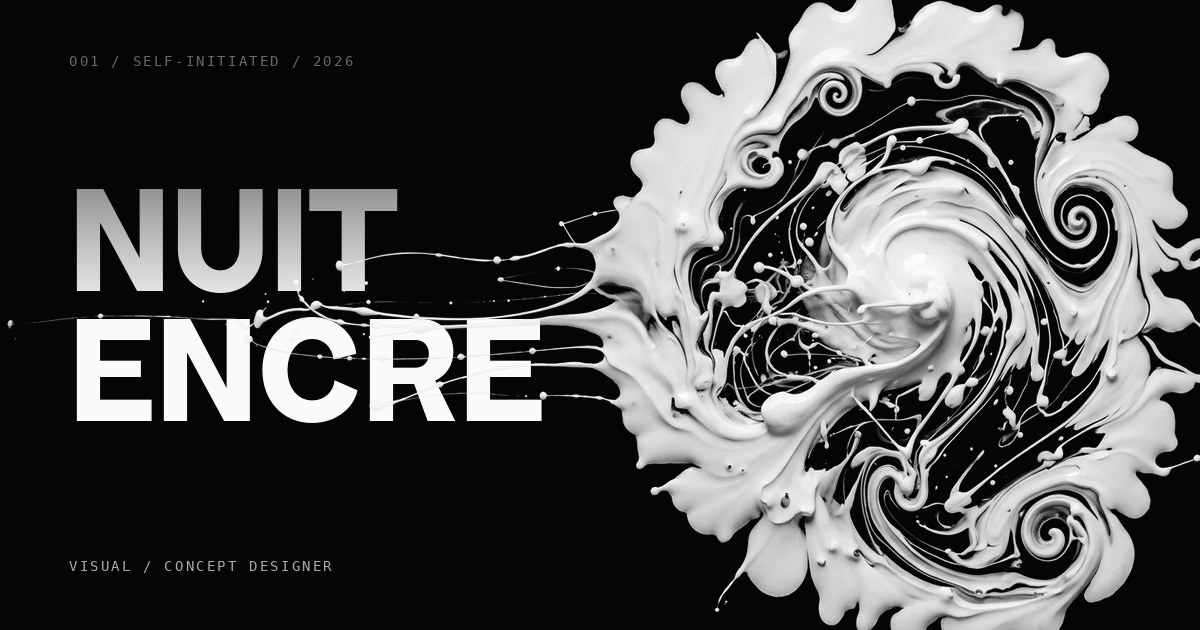
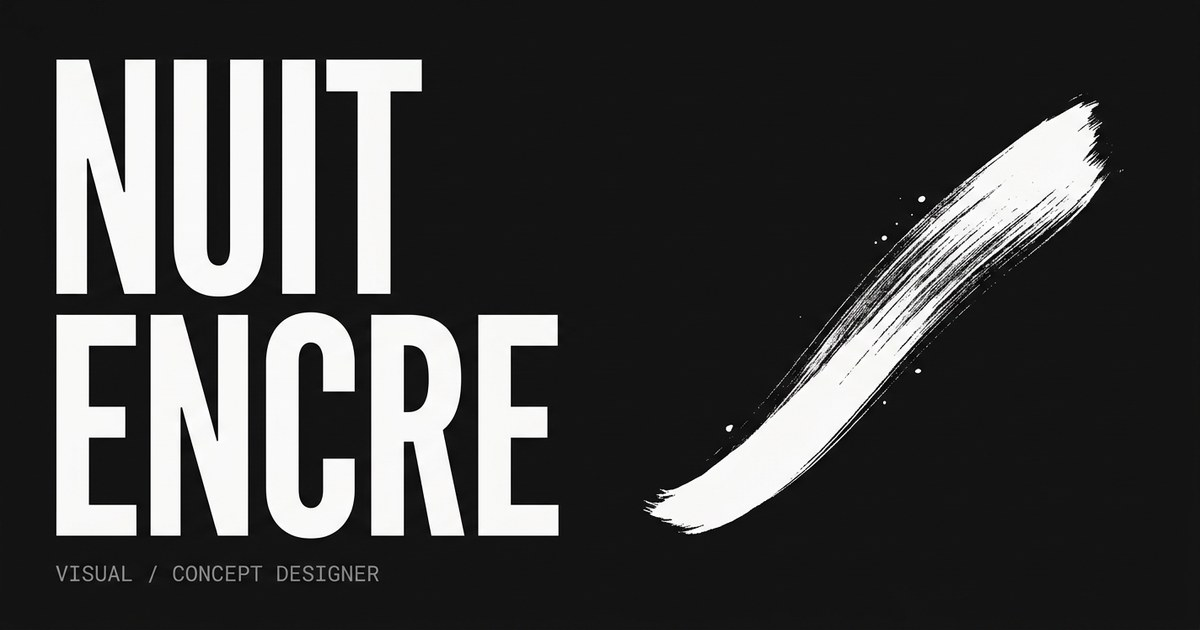
meta: og image baru — flat matte, sesuai identitas situs
Keputusan pemilik: versi lama (swirl cat cair 3D + wordmark gradasi)
jelek. Generate baru 1200×630: latar hitam pekat, wordmark NUIT
ENCRE putih flat dua baris, satu sapuan tinta kuas kering matte +
percikan halus di kanan, 'VISUAL / CONCEPT DESIGNER' monospace di
kiri bawah. Alt og:image disinkronkan; riwayat 3 versi tercatat di
CONCEPT.md §8.

diff --git a/index.html b/index.html
@@ -20,7 +20,7 @@
 <meta property="og:image" content="https://tribeg869-techw.github.io/Nuit-Encre-/assets/img/og-cover.jpg" />
 <meta property="og:image:width" content="1200" />
 <meta property="og:image:height" content="630" />
-<meta property="og:image:alt" content="Wordmark NUIT ENCRE putih di atas latar hitam, dengan pusaran tinta cair yang mengalir di belakang huruf." />
+<meta property="og:image:alt" content="Wordmark NUIT ENCRE putih di atas latar hitam, dengan satu sapuan tinta kuas kering matte dan percikan halus di sisi kanan." />
 <meta name="twitter:card" content="summary_large_image" />
 <meta name="twitter:title" content="NUIT-ENCRE — Visual / Concept Designer" />
 <meta name="twitter:description" content="Studi tentang bentuk, ruang, dan atmosfer." />

diff --git a/CONCEPT.md b/CONCEPT.md
@@ -351,14 +351,23 @@ Yang kedua sengaja ada supaya gambar bisa diunggah langsung tanpa diproses.
 
 
 `assets/img/og-cover.jpg` — 1200×630, muncul saat link dikirim ke WhatsApp,
-X, atau LinkedIn. Dibangkitkan oleh `tools/make-og-card.py`; petunjuk lengkap
-di `tools/README.md`.
+X, atau LinkedIn.
 
 
 **Pekerjaan ini sudah selesai — jangan disetel ulang tanpa diminta.**
-Versi prosedural (memakai `grow()` dari `main.js`) **sudah dicoba dan
-ditolak**: parameternya disetel untuk kanvas potret dan menghasilkan bentuk
-seperti petir di kanvas lanskap.
+Riwayat:
+1. Versi prosedural (`tools/make-og-card.py`, memakai `grow()` dari
+   `main.js`) **sudah dicoba dan ditolak**: parameternya disetel untuk
+   kanvas potret dan menghasilkan bentuk seperti petir di kanvas
+   lanskap.
+2. Versi "swirl tinta 3D" (generate AI) **ditolak pemilik 2026-08-28**
+   ("jelek banget"): glossy render cat cair, wordmark gradasi — tidak
+   sesuai identitas situs.
+3. **Final (2026-08-28, generate AI, 1200×630):** matte total — latar
+   hitam pekat, wordmark NUIT ENCRE dua baris putih flat di kiri, satu
+   sapuan tinta kuas kering dengan percikan halus di kanan, monospace
+   "VISUAL / CONCEPT DESIGNER" di kiri bawah. Bahasa situs: flat,
+   matte, tanpa gloss.
 
 
 URL OG **wajib absolut** — WhatsApp, X, dan LinkedIn tidak me-resolve path
